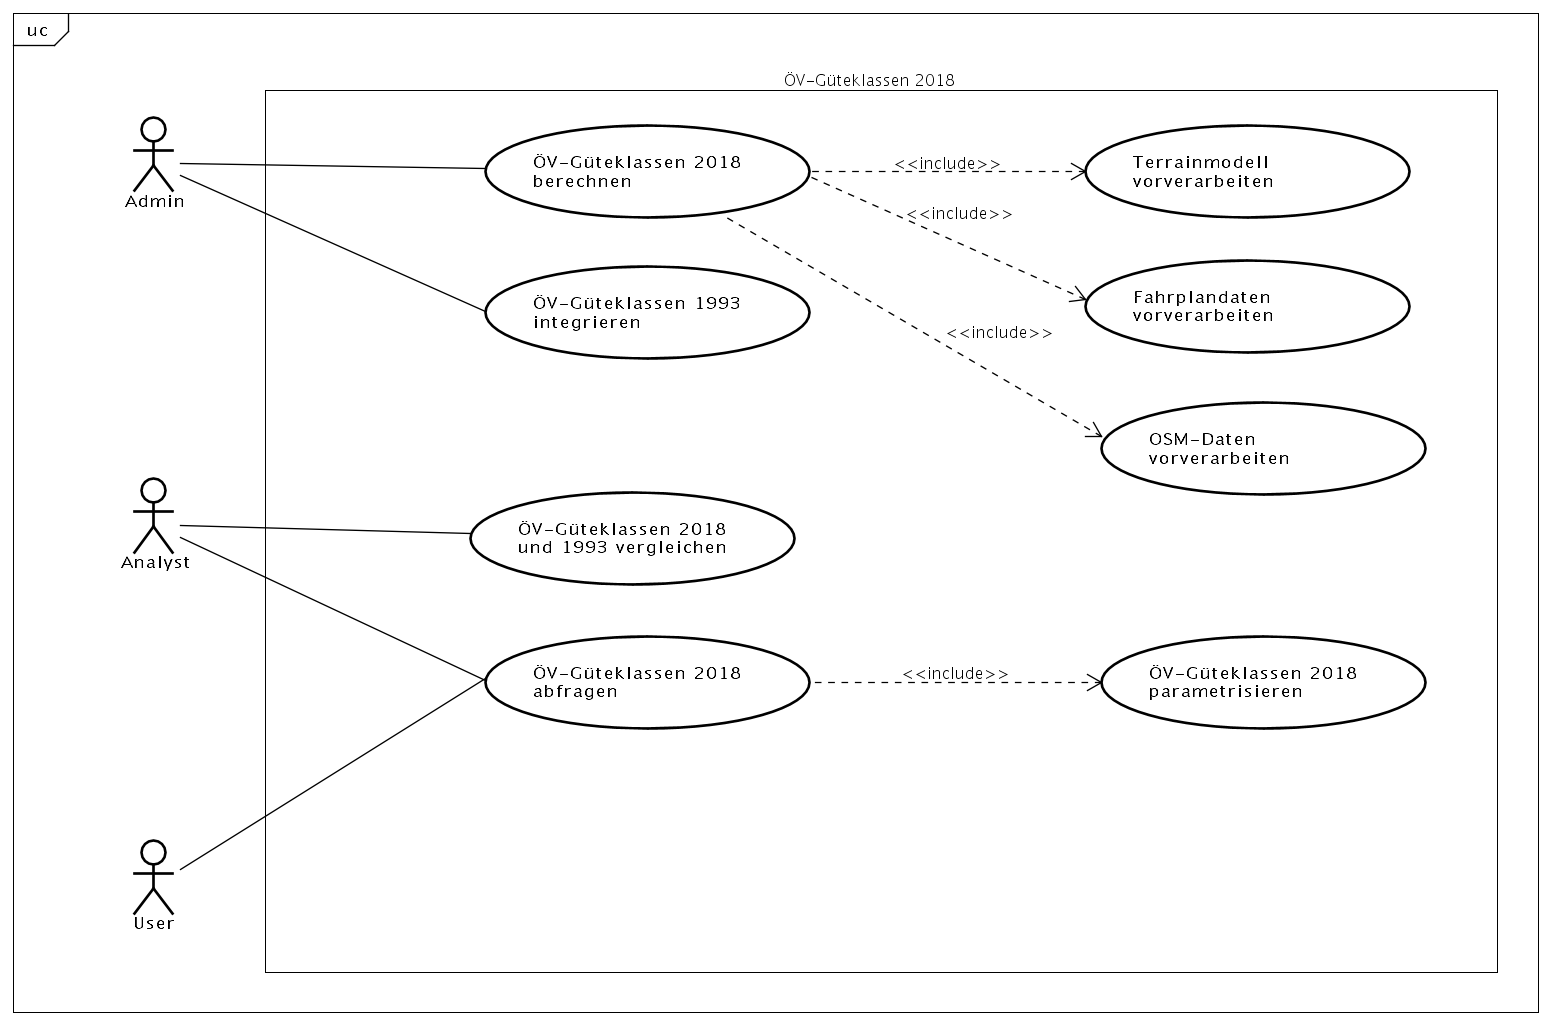
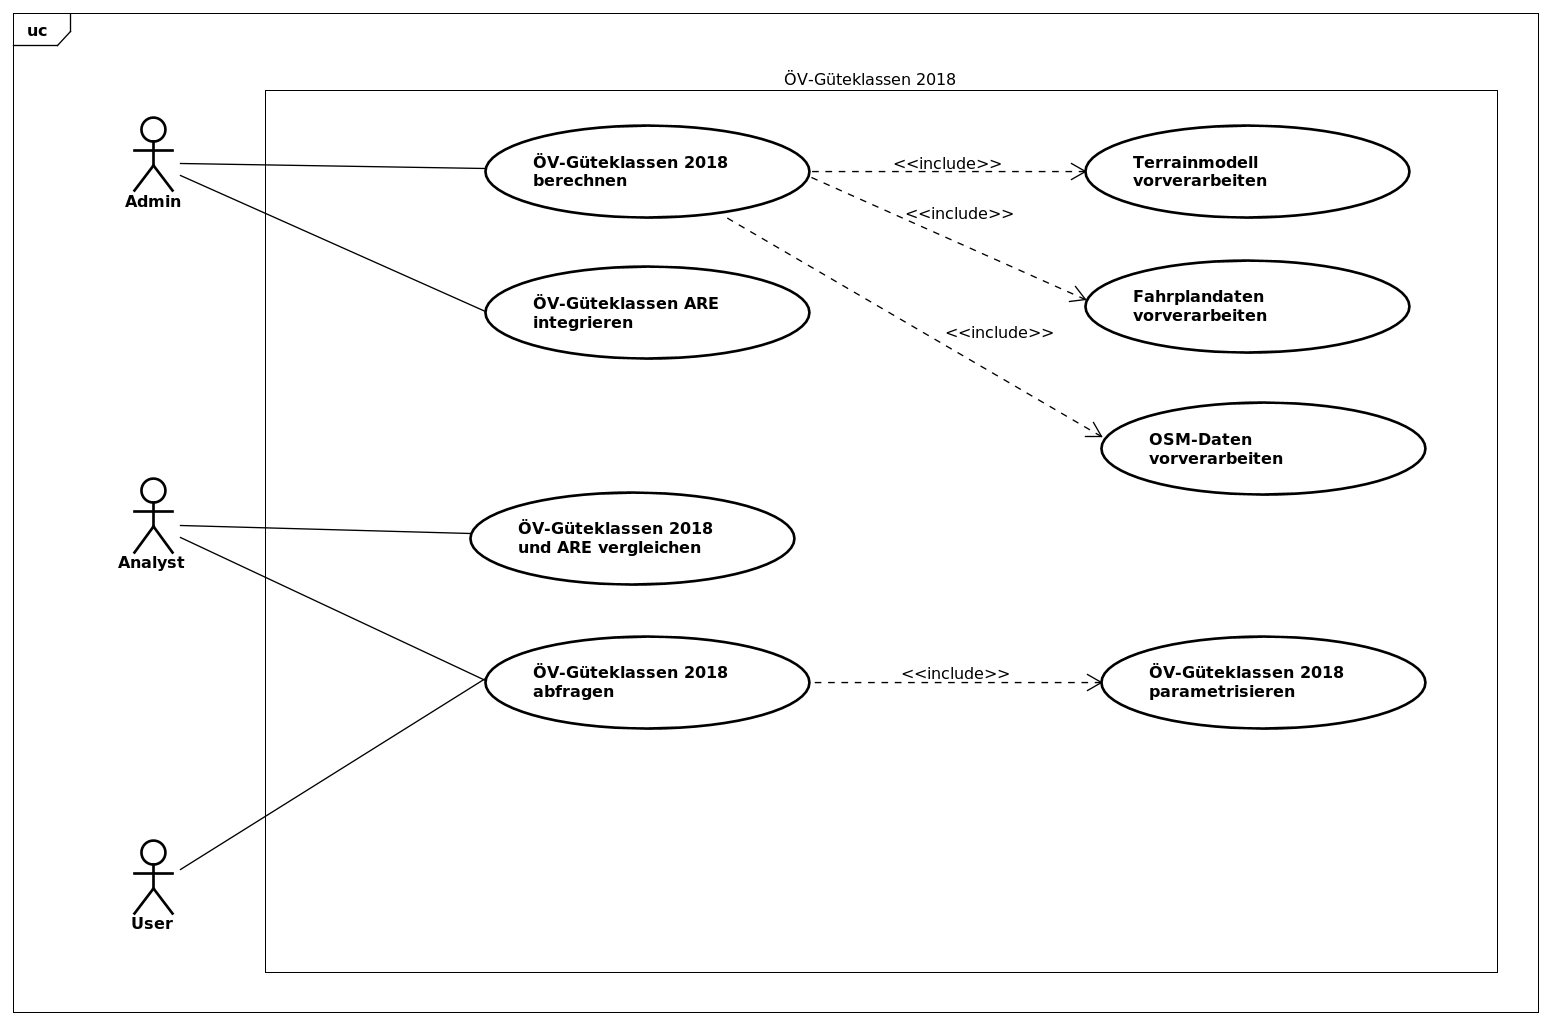
review requirements

diff --git a/projectdoc/anforderungen.tex b/projectdoc/anforderungen.tex
@@ -76,20 +76,20 @@ Der \emph{Admin} nutzt das System "`\acs{ÖV}-Güteklassen 2018"' für das Bezie
 Das System bereit die Daten so vor, dass sie in \nameref{Use Cases:UC01} für die "`\acs{ÖV}-Güteklassen 2018"'-Berechnung einbezogen werden können.
 
 
-\subsubsection{UC05: ÖV-Güteklassen 1993 integrieren}
+\subsubsection{UC05: ÖV-Güteklassen ARE integrieren}
 \label{Use Cases:UC05}
 
 Aktoren: \emph{Admin}
 
-Der \emph{Admin} nutzt das System "`\acs{ÖV}-Güteklassen 2018"' für die Integration der bereits berechneten ÖV-Güteklassen 1993~\cite{berechnung_are}.
+Der \emph{Admin} nutzt das System "`\acs{ÖV}-Güteklassen 2018"' für die Integration der bereits berechneten ÖV-Güteklassen ARE~\cite{berechnung_are}.
 
 
-\subsubsection{UC06: ÖV-Güteklassen 2018 und 1993 vergleichen}
+\subsubsection{UC06: ÖV-Güteklassen 2018 und ARE vergleichen}
 \label{Use Cases:UC06}
 
 Aktoren: \emph{Analyst}
 
-Der \emph{Analyst} nutzt das System "`\acs{ÖV}-Güteklassen 2018"' für den Vergleich der \acs{ÖV}-Güteklassen 1993 und 2018.
+Der \emph{Analyst} nutzt das System "`\acs{ÖV}-Güteklassen 2018"' für den Vergleich der \acs{ÖV}-Güteklassen ARE und 2018.
 Das System präsentiert eine grafische Überlagerung der beiden \acs{ÖV}-Güteklassen.
 
 \subsubsection{UC07: ÖV-Güteklassen 2018 abfragen}
@@ -113,9 +113,9 @@ Das System "`\acs{ÖV}-Güteklassen 2018"' liefert auf Basis dieser die zugehör
 \subsection{Nicht-funktionale Anforderungen}
 \label{Anforderungsspezifikation:Nicht-funktionale Anforderungen}
 
-Im Folgenden sind die nicht-funktionale Anforderungen an das System "`\acs{ÖV}-Güteklassen 2018"' aufgelistet.
+Im Folgenden sind die nicht-funktionalen Anforderungen an das System "`\acs{ÖV}-Güteklassen 2018"' aufgelistet.
 Bei der Erarbeitung wird darauf geachtet, dass die Kriterien \emph{Specific} und \emph{Measurable} aus den \emph{SMART}-Kriterien~\cite{SMART} eingehalten werden.
-Als Spezifikation-Template wird das bewährte Quality Attribute Scenario (QAS) des Software Engineering Institute (SEI)~\cite{BassSoftwareArchitecture2012} eingesetzt.
+Als Spezifikations-Template wird das bewährte Quality Attribute Scenario (QAS) des Software Engineering Institute (SEI)~\cite{BassSoftwareArchitecture2012} eingesetzt.
 In der Kategorie \emph{Stimulus Source} werden die Aktoren aus der Tabelle \ref{table:Aktoren} wiederverwendet.
 Die erwähnten Komponenten sind im Kapitel \ref{Architektur} genauer beschrieben.
 
